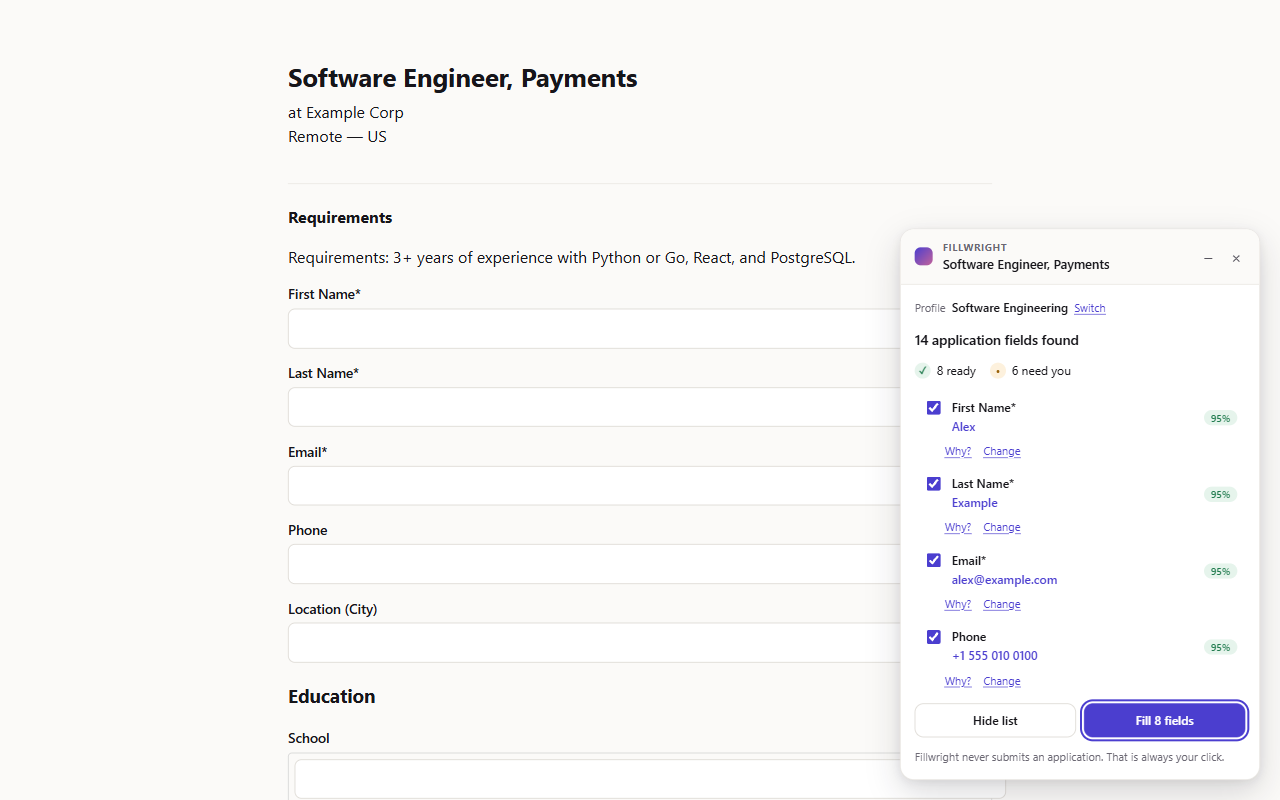
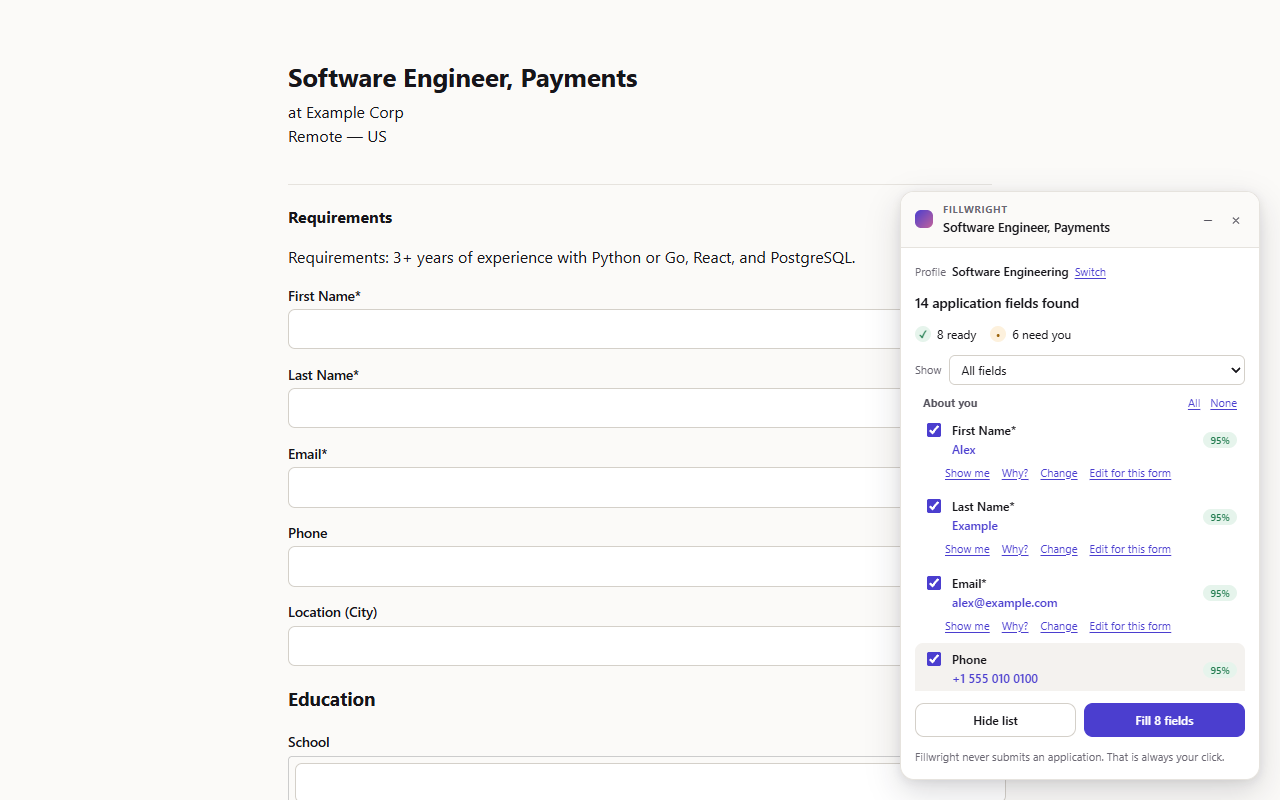
docs: regenerate store screenshots for 0.6.0 and correct stale README facts
Regenerates store/screenshots/*.png from the 0.6.0 build (npm run
screenshots, 1280x800, fictional "Alex Example" profile only) and adds a
Screenshots section to the README as a two-column table with descriptive
alt text.

Also corrects counts that had drifted:

- unit and integration tests: 330 -> 879 (41 files, vitest)
- end-to-end tests: 96 -> 134 (tests/e2e/run.mjs, all passing)
- store/CHECKLIST.md repeated the 96, and still named a 100 KB content.js
  budget where scripts/presubmit.mjs enforces 128 KB

The Known limitations list is already numbered 1-12 sequentially, and the
export-encryption and per-site access entries already describe the current
behaviour, so nothing there needed changing.

diff --git a/README.md b/README.md
@@ -8,6 +8,17 @@ forms after showing you exactly what it is about to write.
 
 It never submits an application. That click is always yours.
 
+## Screenshots
+
+All five are captured from the real extension by `npm run screenshots`, on local
+fixture pages, using an obviously fictional profile ("Alex Example").
+
+| | |
+|---|---|
+| ![The Fillwright panel sitting over a job application form, reporting 14 application fields found, 8 ready and 6 needing you, with Review and Fill buttons](./store/screenshots/1-panel-on-form.png) | ![The review list expanded in the panel, each row showing the proposed value, a confidence percentage, and Show me, Why?, Change and Edit for this form links](./store/screenshots/2-review-list.png) |
+| ![The Profile editor in the options page, with a profile readiness score, a per-section list of what is missing, and the personal information fields marked "entered by you"](./store/screenshots/3-profile-editor.png) | ![The Privacy Center listing exactly what is stored on this device and where, with application history off, above a step-by-step map of where your data goes](./store/screenshots/4-privacy-center.png) |
+| ![The Security page showing encryption is off, with side-by-side lists of what encrypting at rest does and does not protect, and a Turn on encryption button](./store/screenshots/5-vault.png) | |
+
 ---
 
 ## What it does
@@ -162,8 +173,8 @@ zlib.
 ## Testing it
 
 ```bash
-npm test             # 330 unit and integration tests (jsdom)
-npm run test:e2e     # 96 end-to-end tests in real Chrome, including axe-core
+npm test             # 879 unit and integration tests (jsdom)
+npm run test:e2e     # 134 end-to-end tests in real Chrome, including axe-core
 npm run perf         # performance budget in Chrome for Testing
 npm run eval         # classifier and parser accuracy vs tests/corpus/baseline.json
 npm run test:coverage # unit tests with coverage thresholds

diff --git a/store/CHECKLIST.md b/store/CHECKLIST.md
@@ -14,8 +14,8 @@ Run these in order before uploading `release/fillwright-<version>.zip`.
    - remote scripts, stylesheets, dynamic imports or fetches;
    - `eval` / `new Function` outside pdf.js (pdf.js runs with
      `isEvalSupported: false`, and the CSP blocks eval anyway);
-   - `content.js` over 100 KB, or a package over 10 MB.
-2. `npm run test:e2e` — the real-browser suite (96 tests).
+   - `content.js` over 128 KB, or a package over 10 MB.
+2. `npm run test:e2e` — the real-browser suite (134 tests).
 3. `npm run perf` — the performance budget.
 4. `npm run screenshots` — regenerates `store/screenshots/*.png` (1280×800).
 
